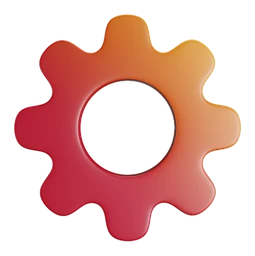
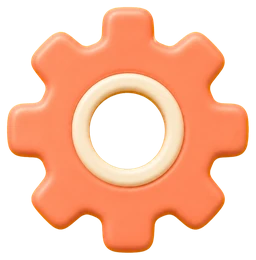
fix(home): align soft 3D layout with approved design

diff --git a/assets/ui/home/SOURCES.md b/assets/ui/home/SOURCES.md
@@ -1,11 +1,11 @@
 # Home UI asset sources
 
 - `album-3d.webp`: generated for JigCat with OpenAI image generation.
-- `settings-3d.webp`: 3D Icons `Setting`, color style, CC0.
-  Source: https://3dicons.co/explore
+- `settings-3d.webp`: generated for JigCat with OpenAI image generation.
 - `progress-paw-3d.webp`: generated for JigCat with OpenAI image generation.
-- `theme-card-frame-3d.webp`: generated for JigCat with OpenAI image generation.
+- `theme-card-frame-3d.webp`: generated and post-processed for JigCat.
 - `start-button-3d.webp`: generated for JigCat with OpenAI image generation.
+- `background-mint.webp`: generated for JigCat with OpenAI image generation.
 
 The runtime files were background-removed, alpha-trimmed, resized, and encoded
 as transparent WebP assets with the repository image tools.
